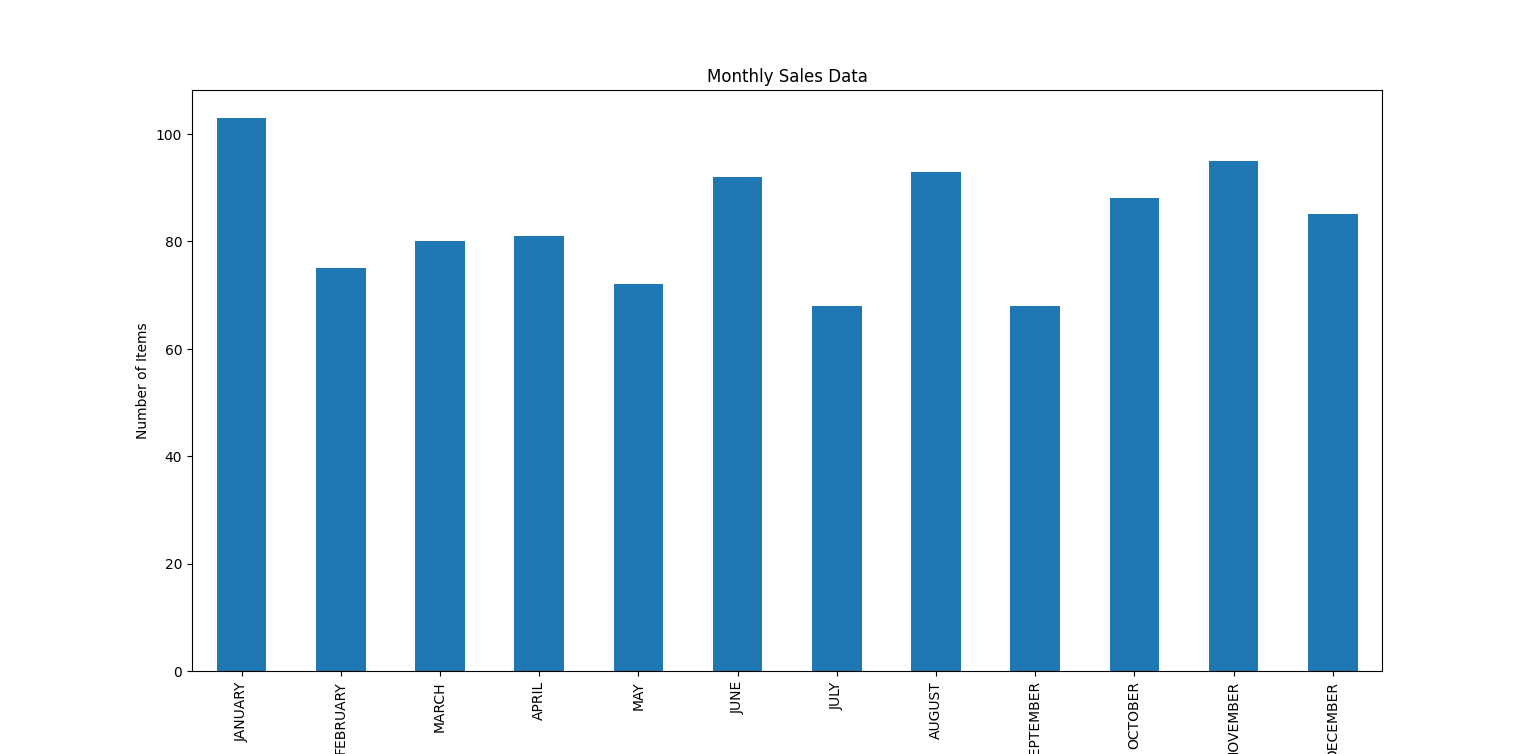
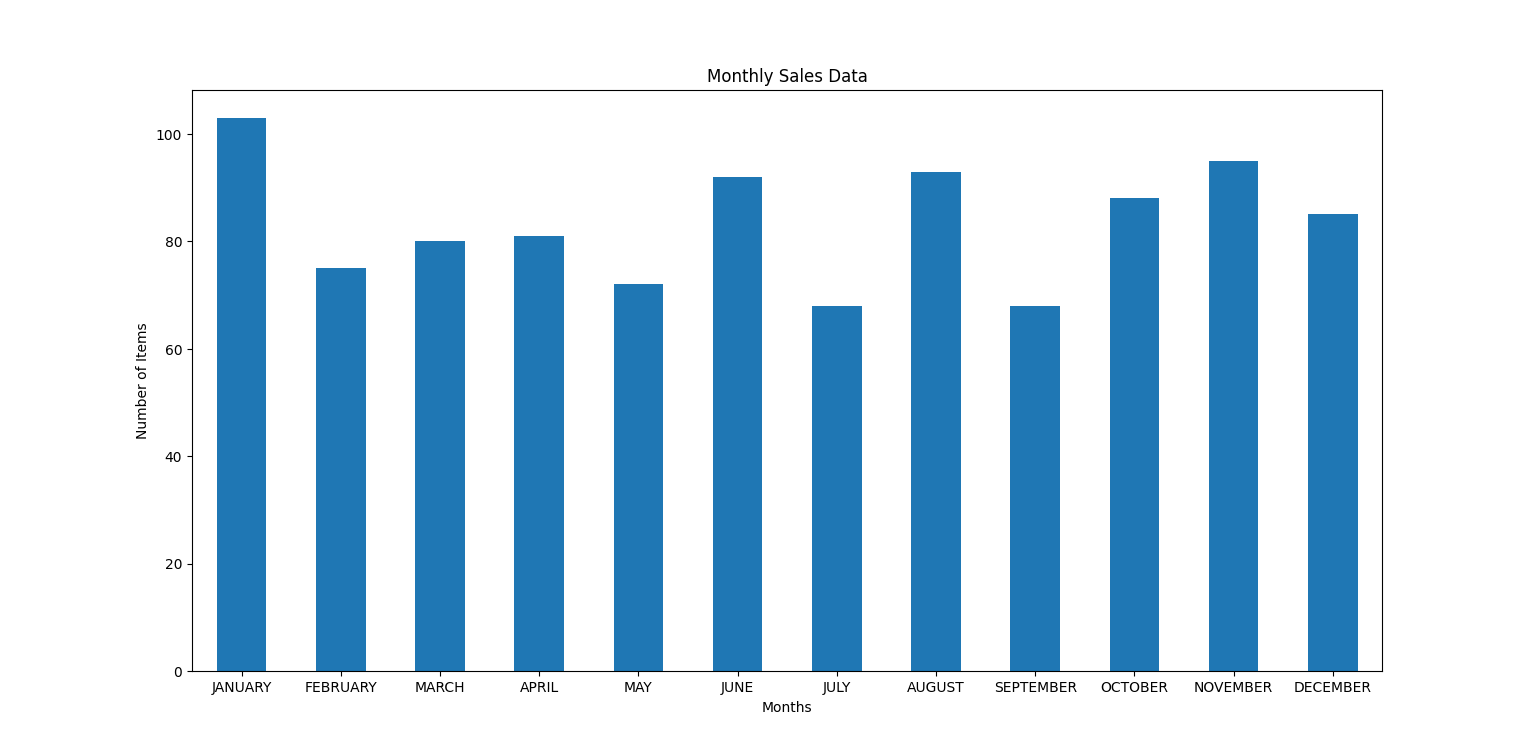
final

diff --git a/Sales-Data-Analyzer.py b/Sales-Data-Analyzer.py
@@ -27,5 +27,5 @@ graph = monthly_sales_trend.plot(kind='bar')
 plt.title('Monthly Sales Data')
 plt.xlabel('Months')
 plt.ylabel('Number of Items')
-plt.xticks(rotation=90)
+plt.xticks(rotation=0)
 plt.show()